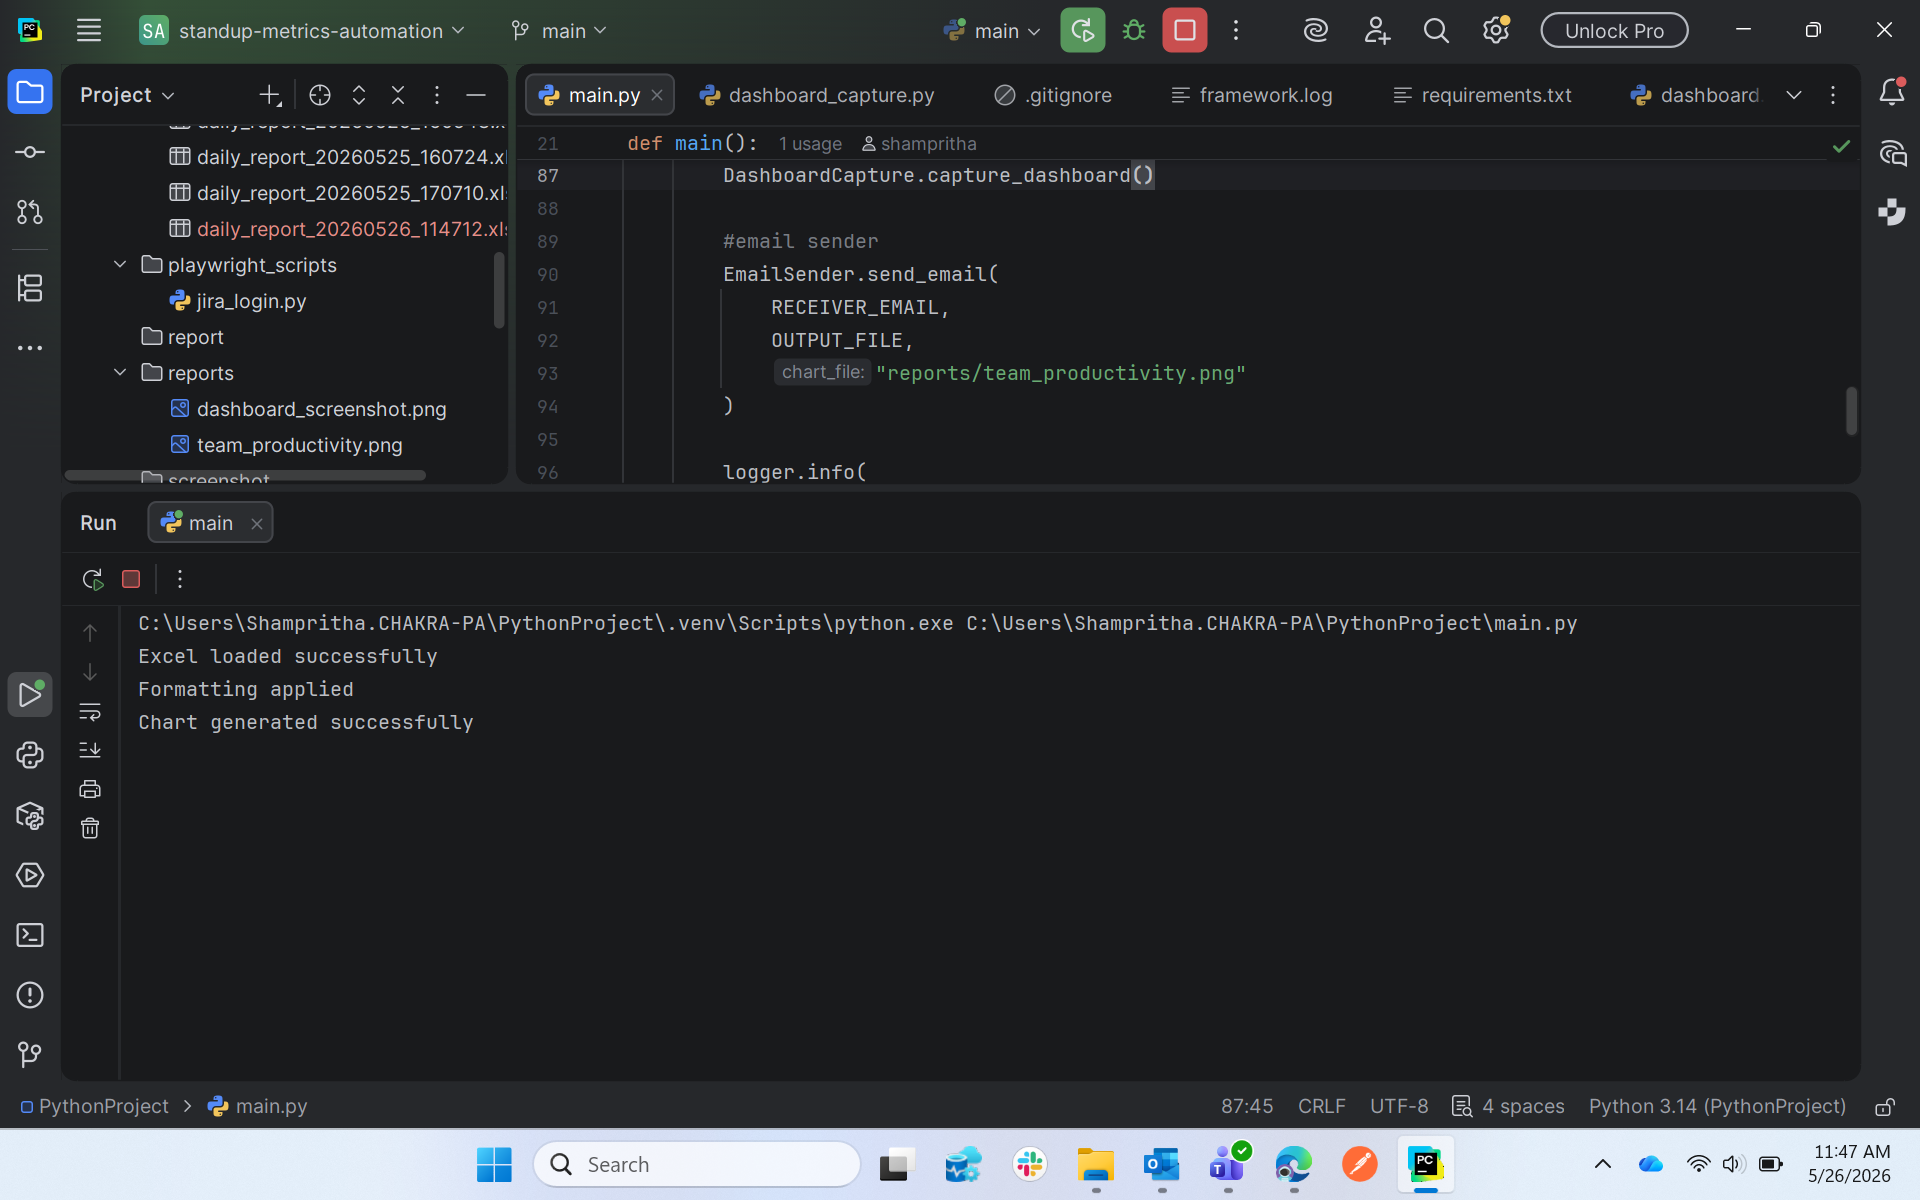
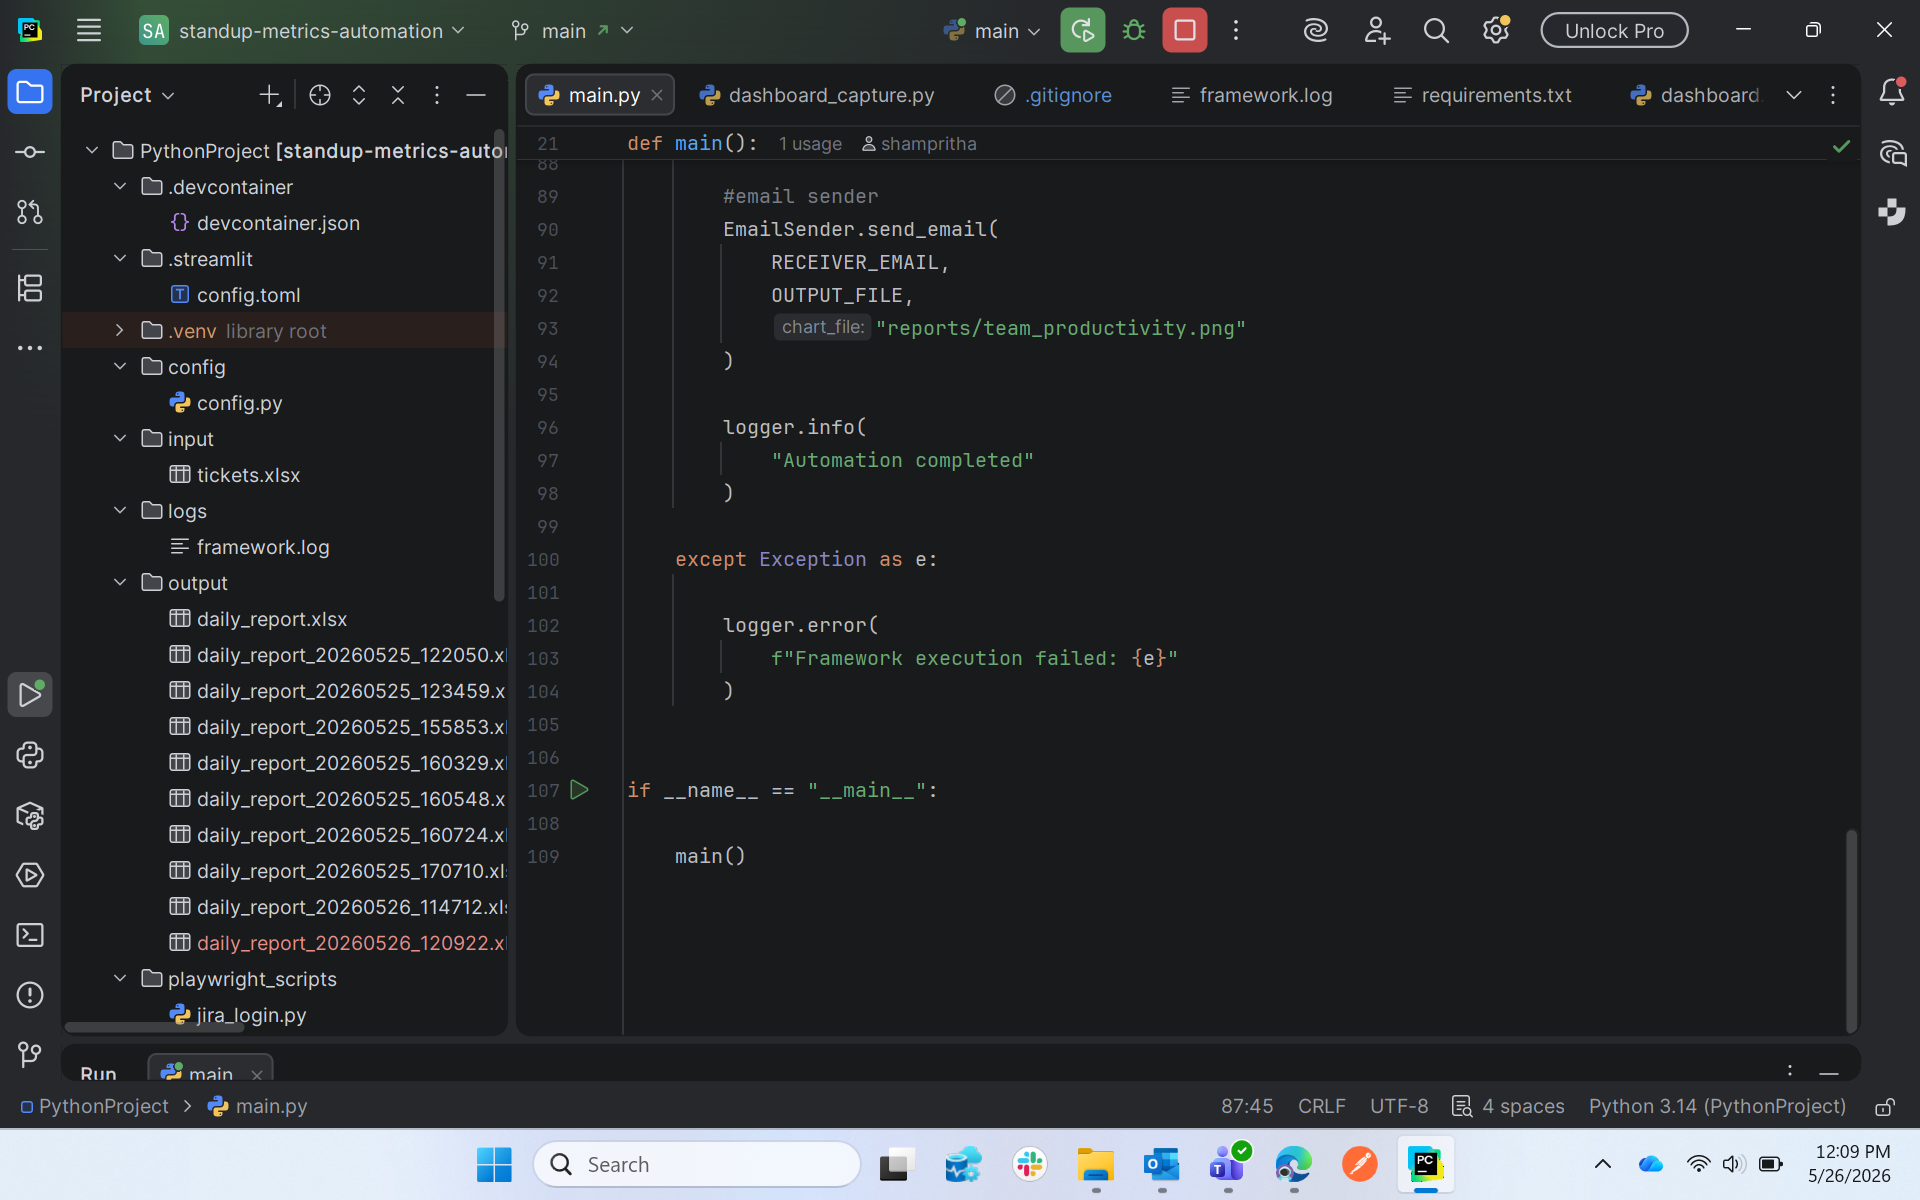
Updated dashboard UI

diff --git a/dashboard.py b/dashboard.py
@@ -7,6 +7,32 @@ from streamlit_autorefresh import (
     st_autorefresh
 )
 
+st.markdown("""
+<style>
+
+/* Hide GitHub icon */
+[data-testid="stToolbar"] a {
+    display: none !important;
+}
+
+/* Hide Fork button */
+button[kind="header"] {
+    display: none !important;
+}
+
+/* Keep Main Menu (3 dots) */
+#MainMenu {
+    visibility: visible;
+}
+
+/* Optional: cleaner header */
+header {
+    background: transparent;
+}
+
+</style>
+""", unsafe_allow_html=True)
+
 st_autorefresh(
     interval=10000,
     key="dashboard_refresh"
